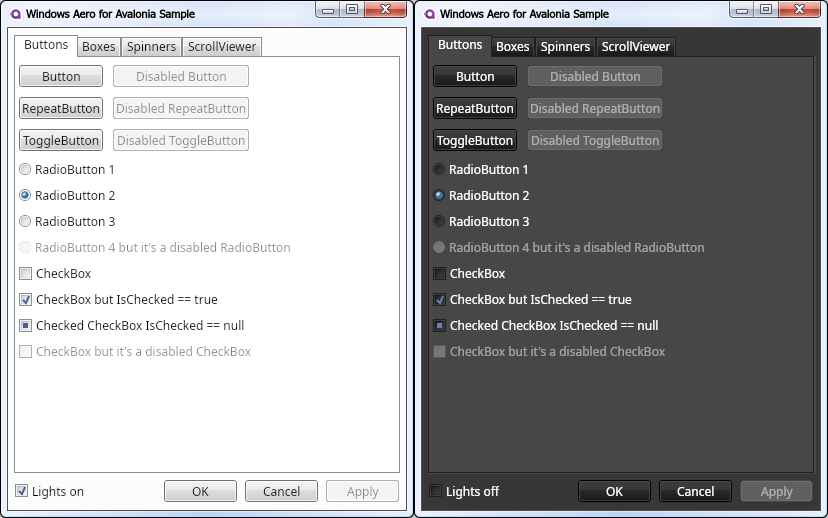
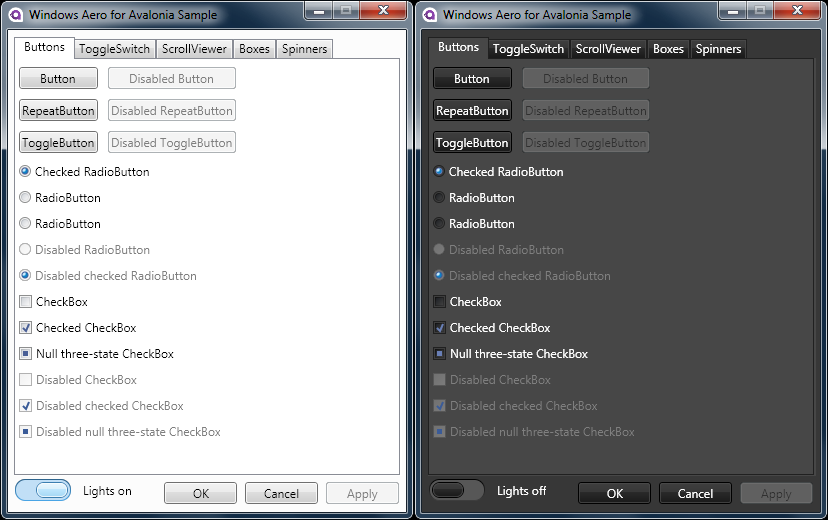
Readme

Changed region(s): [[0.0, 0.0, 1.0, 1.0]]

diff --git a/README.md b/README.md
@@ -1,3 +1,3 @@
 # Aero theme for Avalonia
 
-![preview image](/readme-images/toggleswitch.png)
+![preview image](/readme-images/buttons.png)
